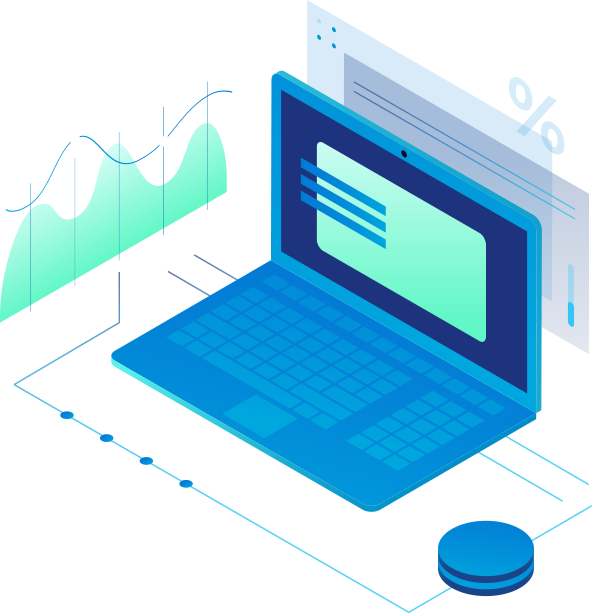
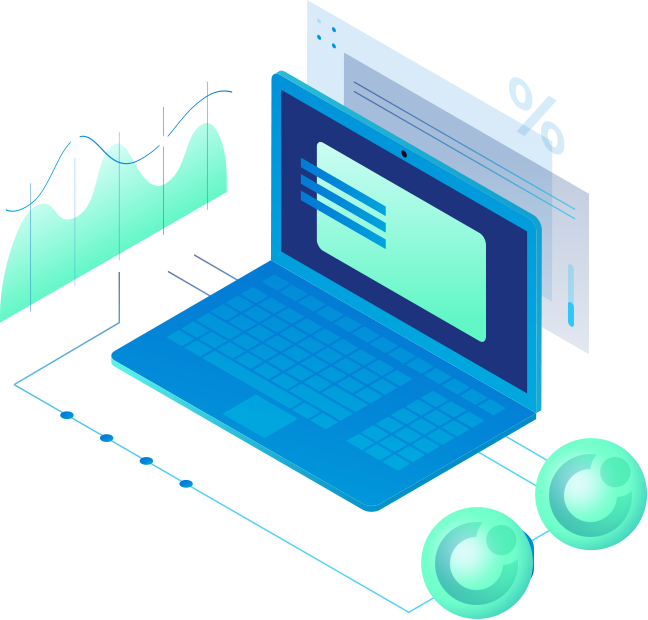
2nd day

diff --git a/css/style.css b/css/style.css
@@ -372,11 +372,14 @@ p {
 /*Why-block*/
 .why {
 	padding-top: 75px;
+	margin-bottom: 105px;
 	background-color: red;
 	height: 680px;
 	display: flex;
 	justify-content: center;
-	background: url('../img/bg_why.png');
+	background: url('../img/bg_why.png') no-repeat transparent;
+	background-size: cover;
+	position: relative;
 }
 .why-pic {
 	margin-left: 30px;
@@ -391,6 +394,7 @@ p {
 .why-text h2 {
 	margin-left: 0;
 	color: #ffffff;
+	margin-bottom: 65px;
 }
 
 .why-text h2:after {
@@ -410,17 +414,75 @@ p {
 }
 
 .reason {
+	padding-bottom: 35px;
 	display: flex;
 	flex-wrap: wrap;
 }
 
 .reason img {
-	padding: ;
 	width: 69px;
+	height: 69px;
 }
 
+.reason h3 {
+	padding-left: 25px;
+	font-size: 17px;
+	line-height: 21px;
+	font-weight: 700;
+	letter-spacing: 1px;
+}
 
+.reason p {
+	width: 465px;
+	padding-left: 94px;
+	font-size: 15px;
+	line-height: 25px;
+	font-weight: 300;
+}
 
+.why-atom {
+	display: block;
+	position: absolute;
+	-z-index: 1;
+	right: 35px;
+	bottom: -165px;
+}
+
+/*Differences block*/
+
+.differences {
+	margin-bottom: 205px;
+	display: flex;
+	flex-direction: column;
+}
+
+.differences h2 {
+	margin: 0;
+	margin-bottom: 60px;
+	margin-right: 830px;
+	align-self: center;
+	width: auto;
+}
+
+.differences h2:after {
+	top: 73%;
+	left: 33%;
+	width: 68%;
+}
+
+.diffs {
+	display: flex;
+	justify-content: center;
+}
+
+.diff {
+	display: flex;
+	align-items: center;
+}
+
+.diffs p {
+	width: 300px;
+}
 
 
 
@@ -480,6 +542,53 @@ p {
 	.part-atom {
 		display: none;
 	}
+	.why {
+		margin-bottom: 75px;
+		flex-direction: column;
+		align-items: center;
+		height: 1242px;
+	}
+	.why-text {
+		margin-bottom: 50px;
+	}
+	.why-pic {
+		margin-left: 0;
+	}
+	.reason {
+		margin-bottom: 50px;
+	}
+	.why-atom {
+		display: none;
+	}
+	
+	.differences {
+		margin-bottom: 135px;
+		align-items: center;
+	}
+
+	.differences h2 {
+		margin: 0 auto;
+		margin-bottom: 50px;
+	}
+
+	.diffs {
+		flex-direction: column;
+		align-items: center;
+	}
+
+	.diff {
+		margin-bottom: 30px;
+		flex-direction: column;
+	}
+	.diff img {
+		margin-bottom: 15px;
+	}
+
+	.diff p {
+		padding: 0;
+		text-align: center;
+	}
+
 }
 
 @media screen and (max-width: 749px)  {
@@ -603,6 +712,112 @@ p {
 	}
 	.part img {
 		margin-top: 30px;
+	}
+	.why {
+		margin-bottom: 40px;
+		align-items: center;
+		height: 950px;
+	}
+	.why-text {
+		width: 320px;
+		margin-bottom: 35px;
+		padding-left: 15px;
+		justify-content: center;
+		align-items: flex-start;
+	}
+
+	.why-pic img{
+		width: 290px;
+		height: 280px;
+	}
+	.why-text h2 {
+		margin: 0;
+		display: flex;
+		width: 170px;
+		color: #ffffff;
+		margin-bottom: 35px;
+		font-size: 21px;
+		line-height: 27px;
+		letter-spacing: 1px;
+		text-align: left;
+}
+		
+
+	.why-text h2:after {
+		display: block;
+		position: absolute;
+		z-index: -1;
+		top: 45%;
+		left: -2%;
+		width: 102%;
+		content: '';
+		border-bottom: 10px solid #1ed4be;
+	}
+	.reason {
+		width: 290px;
+		padding-bottom: 20px;
+		display: flex;
+		flex-wrap: wrap;
+	}
+
+	.reason img {
+		width: 54px;
+		height: 54px;
+	}
+
+	.reason h3 {
+		width: 225px;
+		padding-left: 10px;
+		font-size: 15px;
+		line-height: 19px;
+		font-weight: 700;
+	}
+
+	.reason p {
+		width: 290px;
+		padding-left: 65px;
+		font-size: 13px;
+		line-height: 17px;
+		font-weight: 300;
+	}
+
+	.differences {
+		margin-bottom: 75px;
+		align-items: center;
+	}
+
+	.differences h2 {
+		width: 220px;
+		margin: 0 auto;
+		margin-bottom: 50px;
+	}
+
+	.differences h2:after {
+		top: 32%;
+		left: -2%;
+		width: 102%;
+	}
+
+	.diffs {
+		flex-direction: column;
+		align-items: center;
+	}
+
+	.diff {
+		margin-bottom: 30px;
+		flex-direction: column;
+	}
+	.diff img {
+		width: 97px;
+		margin-bottom: 15px;
+	}
+
+	.diff p {
+		width: 220px;
+		padding: 0;
+		text-align: center;
+		font-size: 13px;
+		line-height: 17px;
 	}
 
 }

diff --git a/index.html b/index.html
@@ -97,7 +97,25 @@
 			</div>
 		</div>
 		<div class="why-pic"><img src="img/why_comp.png" alt=""></div>
-		
+		<div class="why-atom"><img src="img/why_atom.png" alt=""></div>
+	</div>
+
+	<div class="differences">
+		<h2>Главные отличия от банка</h2>
+		<div class="diffs">
+			<div class="diff">
+				<img class="" src="img/diff1.png" alt="">
+				<p class="">Возможность взять товар в кредит со ставкой от 0% годовых</p>
+			</div>
+			<div class="diff">
+				<img class="" src="img/diff2.png" alt="">
+				<p class="">Кредитоспособность обеспечивается складским запасом товаров</p>
+			</div>
+			<div class="diff">
+				<img class="" src="img/diff3.png" alt="">
+				<p class="">Нет валютного контроля и комиссий при международных сделках</p>
+			</div>
+		</div>
 	</div>
 
 <!--			
